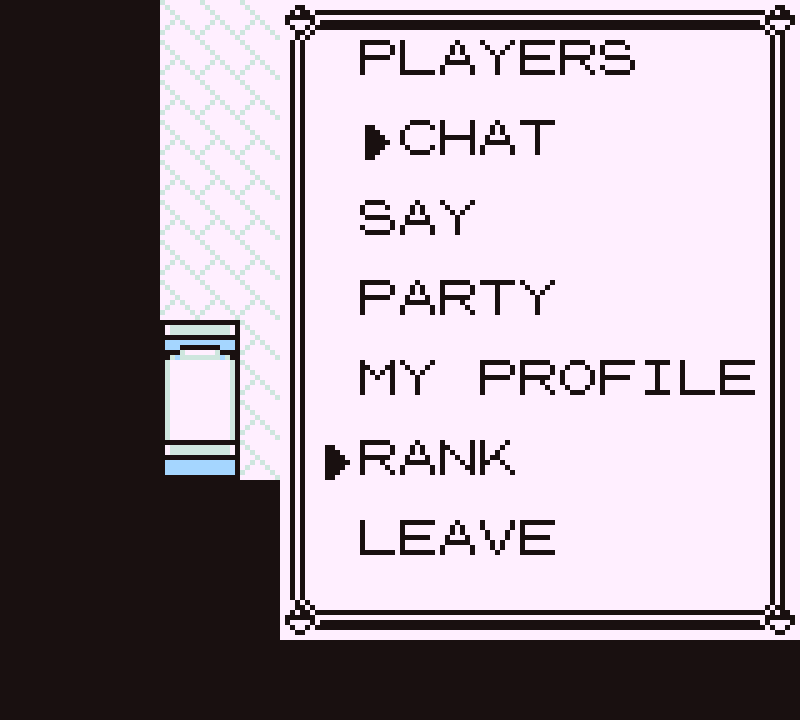
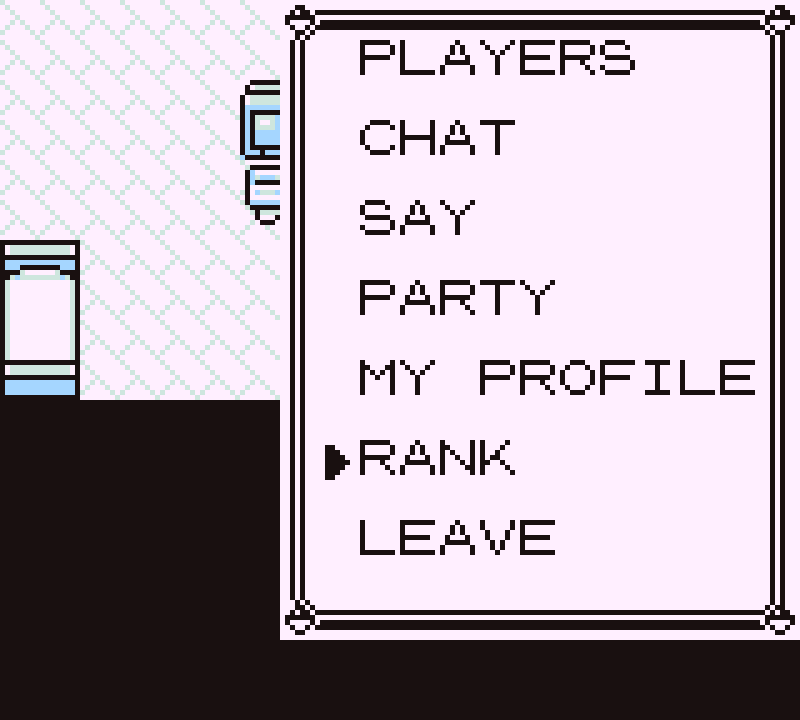
fix: drop the unread marker from the CHAT row
The MMO menu's CHAT row carried an unread marker that never worked. As a
trailing "*" it drew nothing at all -- the extracted font has no glyph for
it, and Font.draw silently draws nothing while Font.width still advances
8px, so "CHAT*" rendered as CHAT plus a blank column that read as a layout
bug. Moving it to a leading "▶" fixed the blank and bought a worse
confusion: "▶" is the menu cursor's own glyph, so a row with unread
messages looked like a second selection sitting on a row the cursor was
not on.

The label is plain "CHAT" now. Chat still counts unread lines and still
clears them on markRead -- the count simply no longer decorates the menu.

The driver's labelMatches keeps its marker tolerance (the party nameplate
still leads with "▶", and it keeps working against an older build), and
the e2e's "every glyph is on the font sheet" check stays: it is the only
thing standing between the next decorated label and the same silent blank.

docs/screenshots/mmo-menu.png was the exact frame showing "▶CHAT", so it
is recaptured from this run.

Changed region(s): [[0.0, 0.0, 0.375, 0.6722], [0.2812, 0.0917, 0.375, 0.3361], [0.4375, 0.1528, 0.6875, 0.2139]]

diff --git a/CHANGELOG.md b/CHANGELOG.md
@@ -4,6 +4,20 @@ All notable changes to this mod are documented here. The format follows
 [Keep a Changelog](https://keepachangelog.com/en/1.1.0/), and the version
 here must match `manifest.version`.
 
+## [0.6.4] - 2026-08-05
+
+### Fixed
+
+- **The `CHAT` row no longer looks like it has the cursor on it.** The unread
+  marker on that row has had two lives and neither worked: as a trailing `*`
+  it drew nothing at all (the extracted font has no glyph for it, and
+  `Font.width` advanced 8px anyway, so the row read as `CHAT` plus a blank
+  column), and as a leading `▶` it drew the menu's own cursor glyph — so a
+  row with unread messages looked like a second selection sitting on a row
+  the cursor was not on. The label is plain `CHAT` now. Unread lines are
+  still counted on the chat model; the count simply no longer decorates the
+  menu.
+
 ## [0.6.3] - 2026-08-05
 
 ### Fixed

diff --git a/README.md b/README.md
@@ -367,7 +367,7 @@ behind it.
 | `JOIN GAME` | not in a game | make a trainer, then the address and the passcode |
 | `ADDRESS` | hosting | your address again — for when someone asks *again* |
 | `PLAYERS` | connected | who's on, `n/limit` if you're hosting |
-| `CHAT` / `SAY` | connected | the log (`▶CHAT` = unread) and sending |
+| `CHAT` / `SAY` | connected | the log and sending |
 | `PARTY` | connected | your party: members, party chat, and leaving it |
 | `MY PROFILE` | connected | your own trainer card, as everyone else sees it |
 | `RANK` | connected | the hub's top ten: place, character, name, points |
